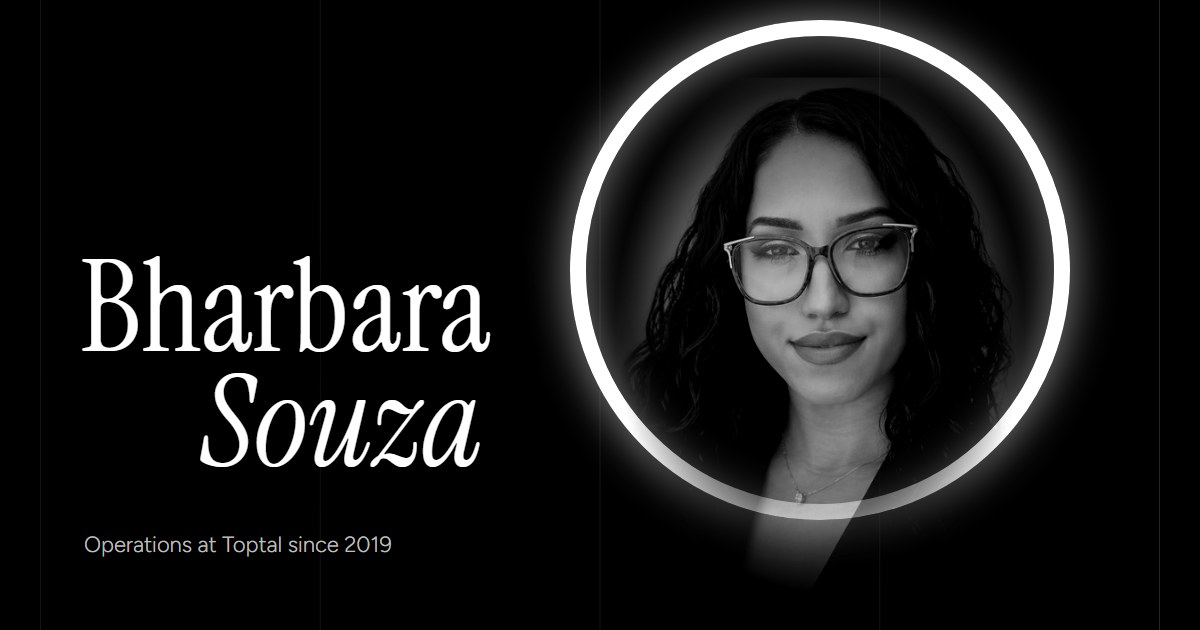
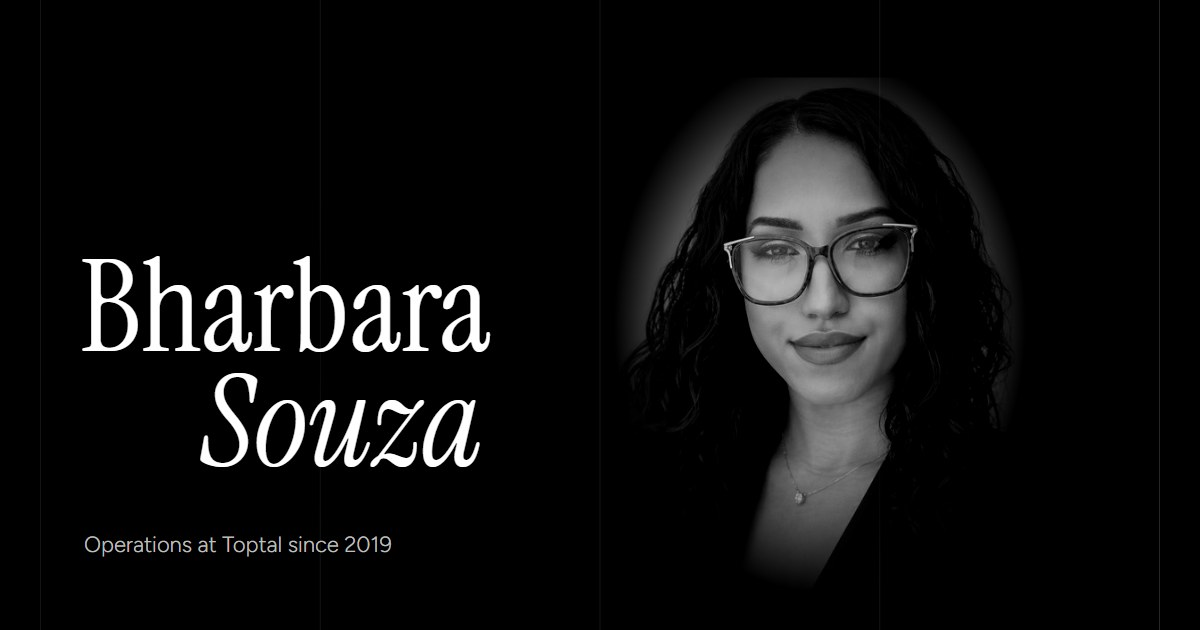
Remove the ring light around the portrait

Changed region(s): [[0.4317, 0.0, 0.925, 0.8444]]

diff --git a/index.html b/index.html
@@ -107,9 +107,9 @@ img { display: block; max-width: 100%; }
 
 .serif { font-family: var(--serif); font-weight: 400; }
 
-/* ---------- Stage: the fixed portrait + ring that the page scrolls over ---------- */
+/* ---------- Stage: the fixed portrait that the page scrolls over ---------- */
 .stage { position: fixed; inset: 0; height: 100vh; height: 100lvh; z-index: 0; pointer-events: none; overflow: hidden; }
-.cam, .halo { position: absolute; left: 50%; top: 50%; width: 0; height: 0; will-change: transform, opacity; }
+.cam { position: absolute; left: 50%; top: 50%; width: 0; height: 0; will-change: transform, opacity; }
 .ph {
   position: absolute; left: 0; top: 0;
   height: 76vh; aspect-ratio: 501 / 627;
@@ -123,17 +123,6 @@ img { display: block; max-width: 100%; }
   animation: ph-in 2s var(--ease) .1s both;
 }
 @keyframes ph-in { from { opacity: 0; transform: scale(1.08); } to { opacity: 1; transform: none; } }
-.ring {
-  --d: 78vh;
-  position: absolute; left: 0; top: 0;
-  width: var(--d); height: var(--d);
-  transform: translate(-50%, -50%);
-  border-radius: 50%;
-  border: calc(var(--d) * .032) solid #fff;
-  box-shadow: 0 0 calc(var(--d) * .08) calc(var(--d) * .01) rgba(255,255,255,.45), inset 0 0 calc(var(--d) * .08) calc(var(--d) * .01) rgba(255,255,255,.4);
-  animation: ring-in 2.4s var(--ease) .35s both;
-}
-@keyframes ring-in { from { opacity: 0; transform: translate(-50%, -50%) scale(.82); } to { opacity: 1; transform: translate(-50%, -50%); } }
 .shade { position: absolute; inset: auto 0 0 0; height: 42%; background: linear-gradient(to top, rgba(0,0,0,.82), transparent); }
 
 /* Vertical hairline guides */
@@ -339,7 +328,6 @@ footer a { min-height: 44px; display: inline-flex; align-items: center; margin-t
 @media (max-width: 1000px) {
   .grid { column-gap: 16px; }
   .ph { height: auto; width: min(112vw, 560px); }
-  .ring { --d: min(96vw, 520px); }
   .top nav a { display: none; }
   .shade { height: 60%; background: linear-gradient(to top, #000 10%, rgba(0,0,0,.6) 50%, transparent); }
   .name, .hero-p, .statement, .body-copy, .facts, .work-head, .works, .proj .eyebrow, .proj-copy, .proj-list,
@@ -364,7 +352,7 @@ footer a { min-height: 44px; display: inline-flex; align-items: center; margin-t
 
 /* ---------- Reduced motion: everything in place, nothing travels ---------- */
 @media (prefers-reduced-motion: reduce) {
-  .grain, .cue::after, .ph img, .ring, .name .line span, .js .hero-p { animation: none; }
+  .grain, .cue::after, .ph img, .name .line span, .js .hero-p { animation: none; }
   .js [data-split="words"] .w, .js [data-reveal] { opacity: 1; transform: none; transition: none; }
   .js .statement .w { opacity: 1; }
   .hero-in { opacity: 1; transform: none; }
@@ -372,7 +360,7 @@ footer a { min-height: 44px; display: inline-flex; align-items: center; margin-t
   .pin-sticky { position: static; height: auto; padding: clamp(100px, 18vh, 200px) 0 0; }
   .panel { clip-path: none; }
   .big-title { transform: none; }
-  .cam, .halo { transition: opacity .4s; }
+  .cam { transition: opacity .4s; }
   .rail a i, .rail a span, .top nav a::after { transition: none; }
 }
 </style>
@@ -381,7 +369,6 @@ footer a { min-height: 44px; display: inline-flex; align-items: center; margin-t
 <a class="skip" href="#main" data-i18n="skip">Skip to content</a>
 
 <div class="stage" aria-hidden="true">
-  <div class="halo"><div class="ring"></div></div>
   <div class="cam"><div class="ph"><img src="portrait.jpg" width="501" height="627" alt="" fetchpriority="high"></div></div>
   <div class="shade"></div>
 </div>
@@ -754,29 +741,29 @@ document.querySelectorAll('.lang button').forEach(function (b) {
 })();
 
 /* ---------- Scroll-driven stage ----------
-   Each section names a "shot": where the portrait and ring sit, how big, how bright.
+   Each section names a "shot": where the portrait sits, how big, how bright.
    Scroll position picks a blend of shots; a damped follow makes the move feel physical. */
 (function () {
-  //            portrait: x(vw) y(vh) scale opacity | ring: x y scale opacity
+  //            x(vw)  y(vh)  scale  opacity
   var WIDE = {
-    hero:      [ 0,    -.08, 1,    1,    0,    -.1,  1,    1  ],
-    about:     [ .3,   -.04, 1.12, .3,   .36,  -.12, .78,  .35],
-    aboutBody: [ .26,  -.1,  1,    .95,  .3,   -.15, .82,  1  ],
-    facts:     [ -.24, -.08, 1.08, .95,  -.31, -.2,  1.05, 1  ],
-    work:      [ .27,  -.04, .96,  .75,  .47,  -.26, .92,  .9 ],
-    career:    [ .25,  .02,  1.28, .8,   .5,   -.3,  1.5,  1  ],
-    contact:   [ -.25, 0,    .9,   1,    -.25, -.04, .98,  1  ]
+    hero:      [ 0,    -.08, 1,    1 ],
+    about:     [ .3,   -.04, 1.12, .3 ],
+    aboutBody: [ .26,  -.1,  1,    .95 ],
+    facts:     [ -.24, -.08, 1.08, .95 ],
+    work:      [ .27,  -.04, .96,  .75 ],
+    career:    [ .25,  .02,  1.28, .8 ],
+    contact:   [ -.25, 0,    .9,   1 ]
   };
   var NARROW = {
-    hero:      [ 0,    -.14, 1,    1,    .08,  -.18, 1,    1  ],
-    about:     [ .12,  -.1,  1.15, .22,  .3,   -.22, .9,   .25],
-    aboutBody: [ -.06, -.16, 1.05, .28,  -.3,  -.25, .85,  .3 ],
-    facts:     [ .14,  -.12, 1.12, .26,  .4,   -.2,  1,    .25],
-    work:      [ -.1,  -.1,  1.04, .2,   .45,  -.28, .95,  .25],
-    career:    [ .1,   -.06, 1.3,  .22,  -.4,  -.3,  1.3,  .25],
-    contact:   [ 0,    -.2,  .9,   .26,  0,    -.22, 1,    .28]
+    hero:      [ 0,    -.14, 1,    1 ],
+    about:     [ .12,  -.1,  1.15, .22 ],
+    aboutBody: [ -.06, -.16, 1.05, .28 ],
+    facts:     [ .14,  -.12, 1.12, .26 ],
+    work:      [ -.1,  -.1,  1.04, .2 ],
+    career:    [ .1,   -.06, 1.3,  .22 ],
+    contact:   [ 0,    -.2,  .9,   .26 ]
   };
-  var cam = document.querySelector('.cam'), halo = document.querySelector('.halo');
+  var cam = document.querySelector('.cam');
   var hero = document.querySelector('.hero'), pin = document.getElementById('pin');
   var statement = document.querySelector('.statement');
   var shotEls = [].slice.call(document.querySelectorAll('[data-shot]'));
@@ -813,11 +800,11 @@ document.querySelectorAll('.lang button').forEach(function (b) {
       var t = smooth(clamp((mid - tops[k] + H * .45) / (H * .9)));
       if (t <= 0) break;
       var s = shots[shotEls[k].dataset.shot];
-      for (var j = 0; j < 8; j++) out[j] += (s[j] - out[j]) * t;
+      for (var j = 0; j < 4; j++) out[j] += (s[j] - out[j]) * t;
     }
     if (reduce.matches) { // no travel: hold the opening shot, only dim it
       var o = y > H * .5 ? .22 : 1, h = shots.hero;
-      return [h[0], h[1], h[2], o, h[4], h[5], h[6], o];
+      return [h[0], h[1], h[2], o];
     }
     return out;
   }
@@ -829,15 +816,13 @@ document.querySelectorAll('.lang button').forEach(function (b) {
     var tgt = target(y);
     if (!cur) cur = tgt.slice();
     var k = reduce.matches ? 1 : 1 - Math.exp(-dt * 5.5), moving = false;
-    for (var j = 0; j < 8; j++) {
+    for (var j = 0; j < 4; j++) {
       var d = tgt[j] - cur[j];
       cur[j] += d * k;
       if (Math.abs(d) > .0004) moving = true;
     }
     cam.style.transform = 'translate3d(' + (cur[0] * W).toFixed(1) + 'px,' + (cur[1] * H).toFixed(1) + 'px,0) scale(' + cur[2].toFixed(4) + ')';
     cam.style.opacity = cur[3].toFixed(3);
-    halo.style.transform = 'translate3d(' + (cur[4] * W).toFixed(1) + 'px,' + (cur[5] * H).toFixed(1) + 'px,0) scale(' + cur[6].toFixed(4) + ')';
-    halo.style.opacity = cur[7].toFixed(3);
 
     if (scrolled) {
       if (y < H * .5 || y < dirY - 8) { topBar.classList.remove('away'); dirY = y; }
